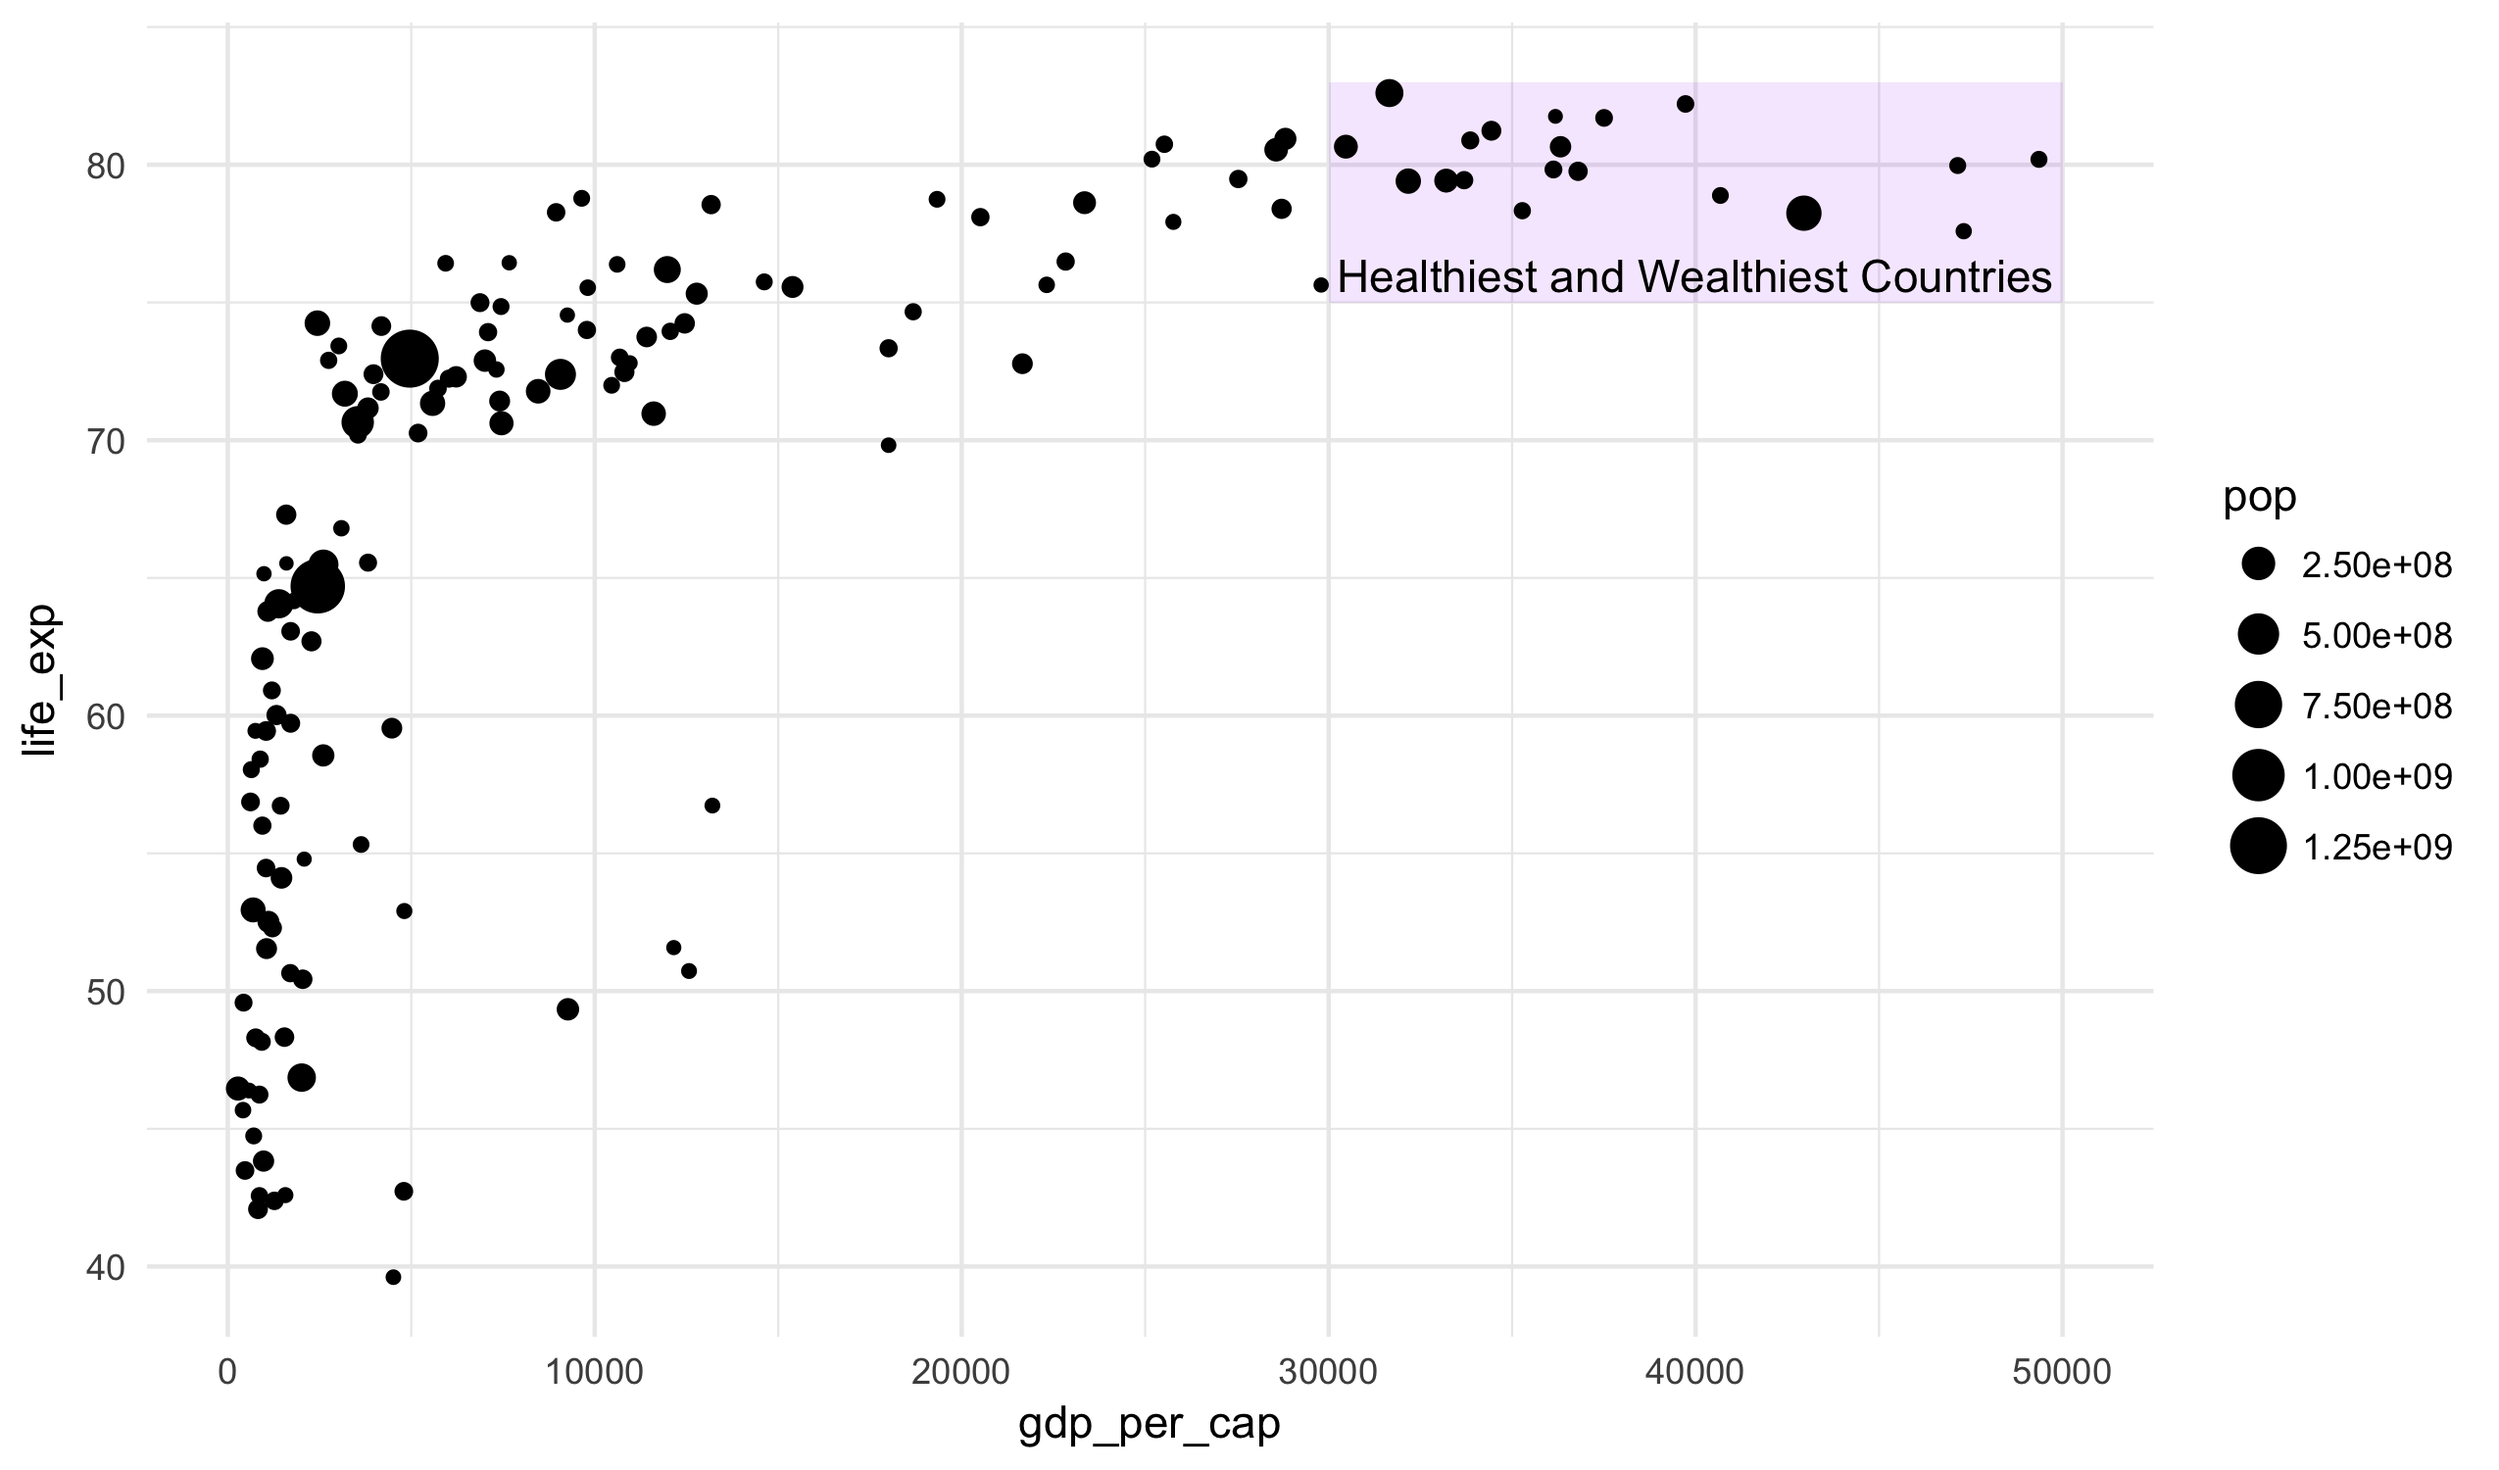
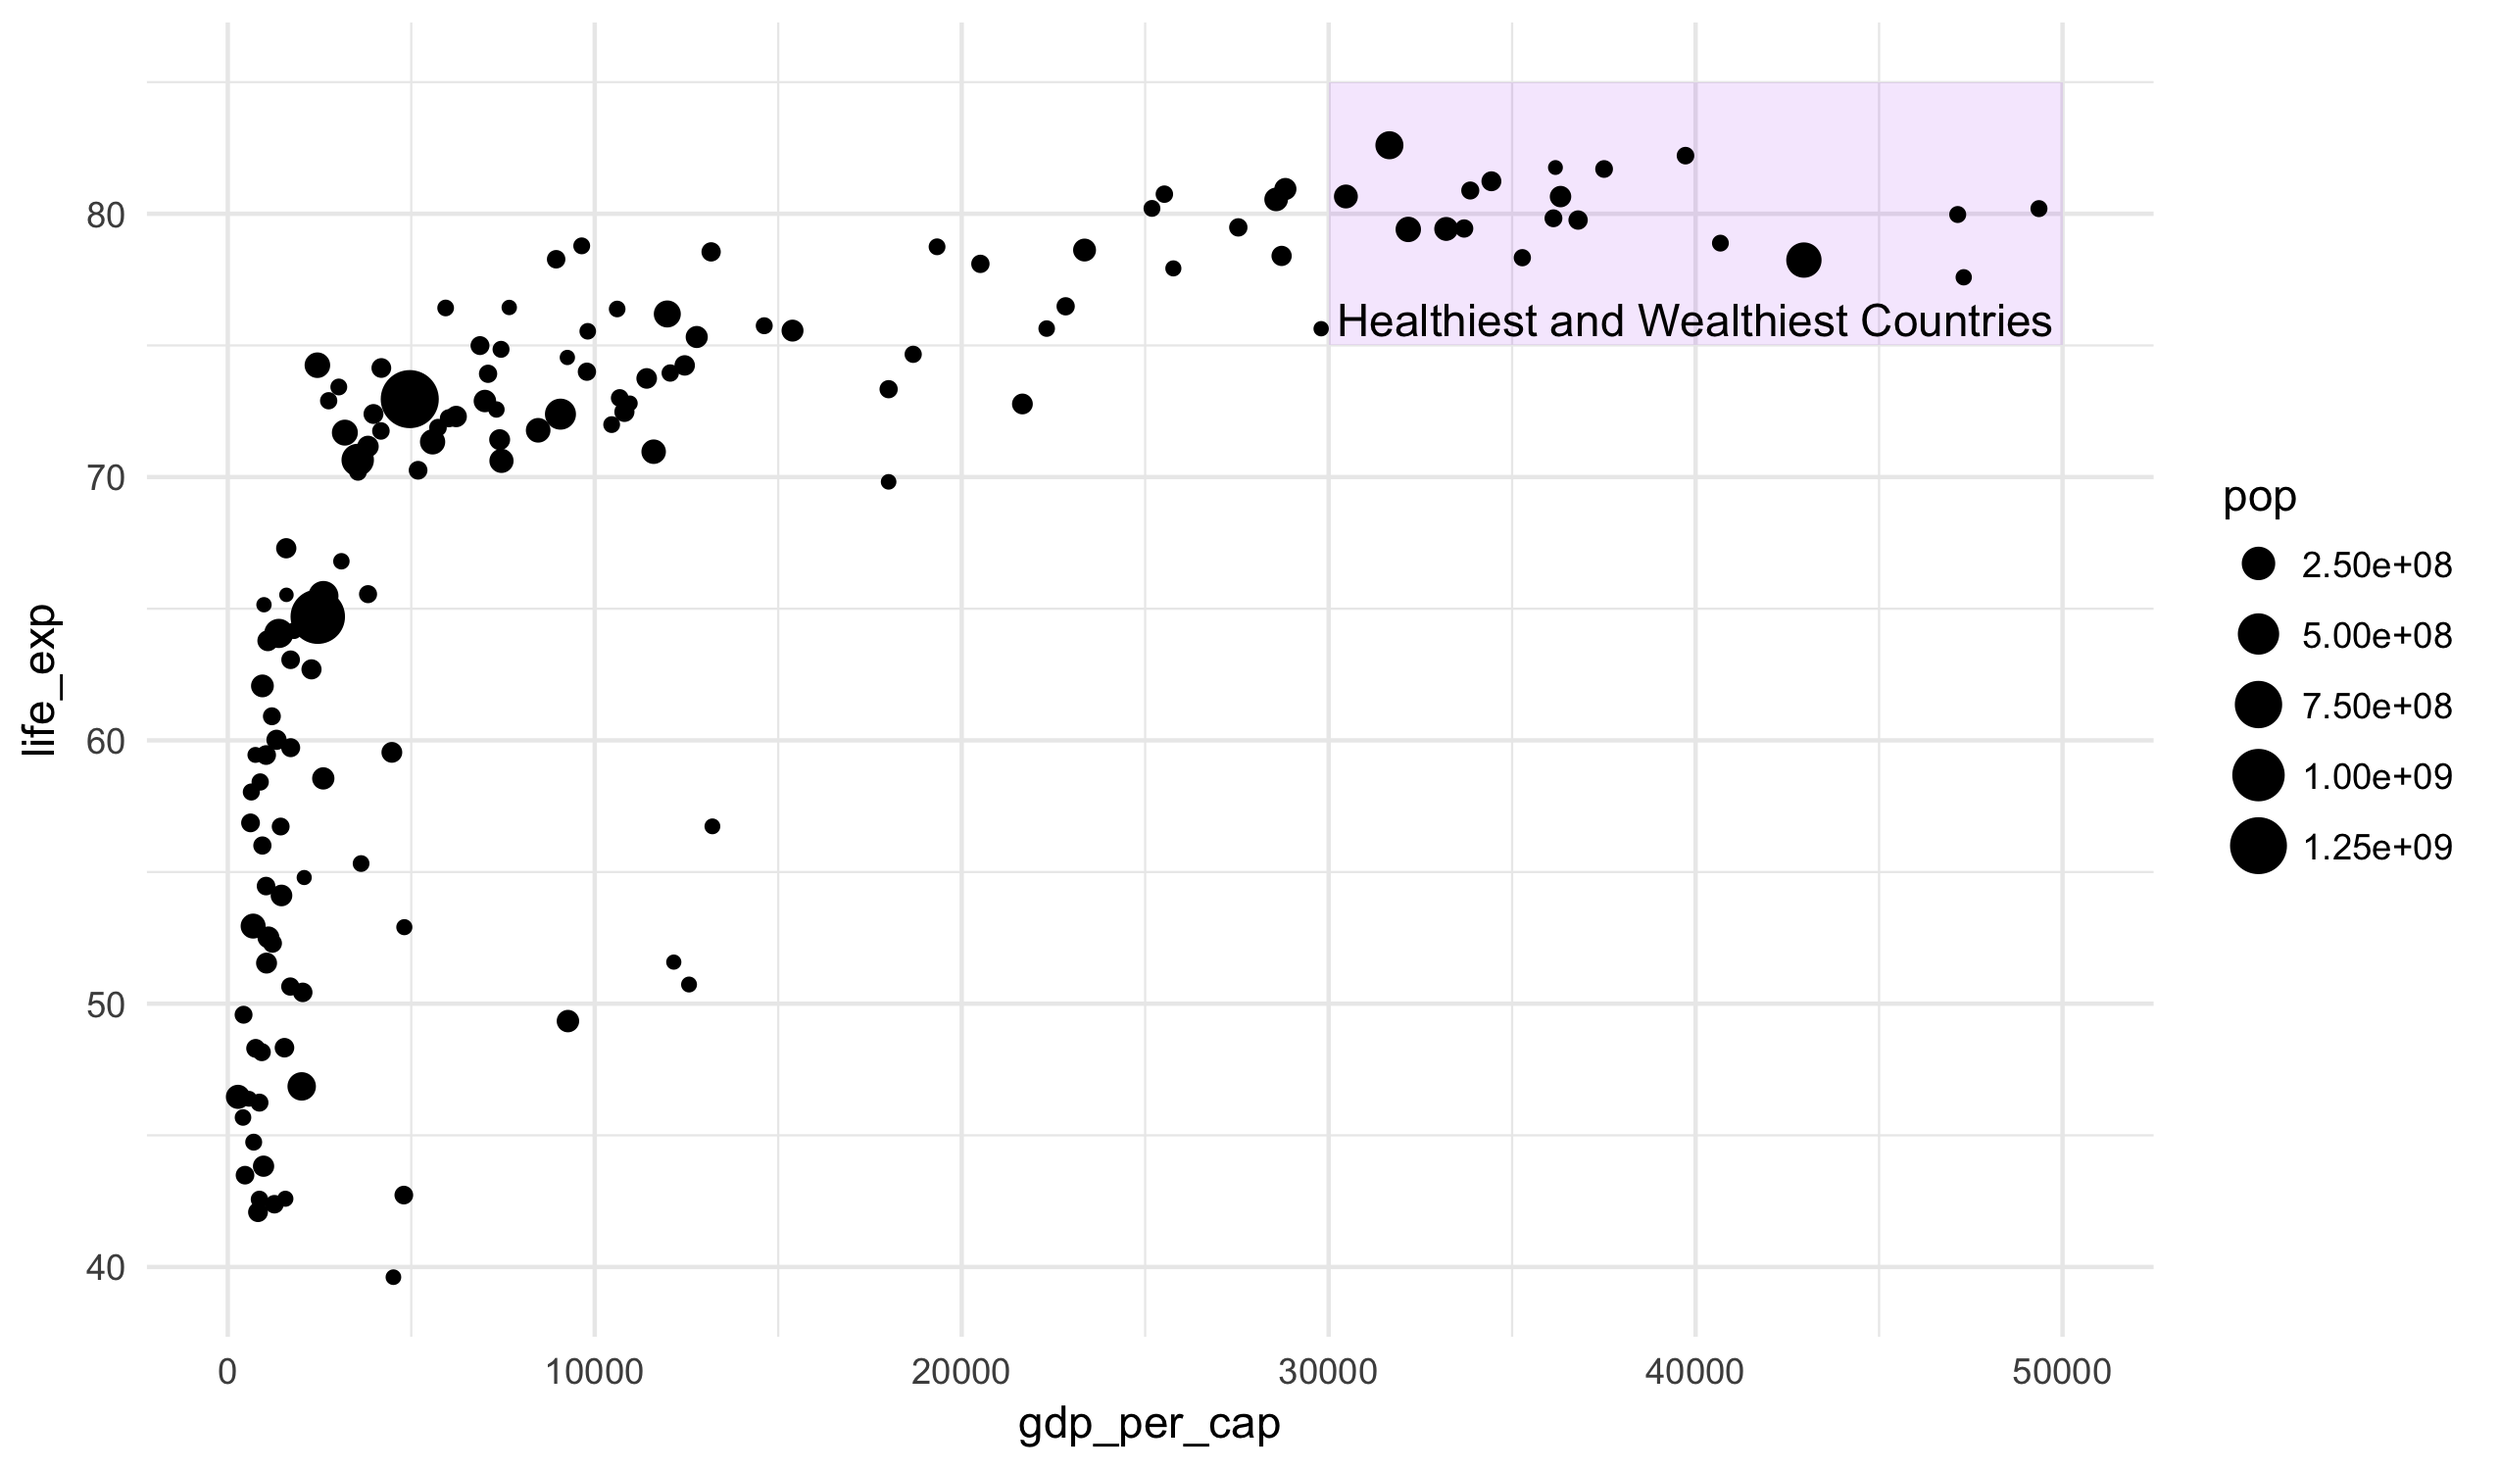
update class09

diff --git a/_notes/class09-viz-annotation.md b/_notes/class09-viz-annotation.md
@@ -116,7 +116,7 @@ Similarly, I could label the US on the plot:
 {% highlight r %}
 ggplot(data=gapminder_2007, aes(x=gdp_per_cap, y=life_exp)) +
   geom_point(aes(size=pop, color = continent)) +
-  annotate("text", x = 42950, y = 767, label = "USA")
+  annotate("text", x = 42950, y = 76.7, label = "USA")
 {% endhighlight %}
 
 <img src="../assets/class09-viz-annotation/unnamed-chunk-9-1.png" title="plot of chunk unnamed-chunk-9" alt="plot of chunk unnamed-chunk-9" width="100%" />
@@ -127,7 +127,7 @@ Or, highlight the healthy and wealthy part of the plot:
 {% highlight r %}
 ggplot(data=gapminder_2007, aes(x=gdp_per_cap, y=life_exp)) +
   annotate("rect", xmin = 30000, xmax = 50000,
-                   ymin = 75, ymax = 83,
+                   ymin = 75, ymax = 85,
                    fill = "purple", alpha = 0.1) +
   geom_point(aes(size=pop)) +
   annotate("text", x = 40000, y = 76,
